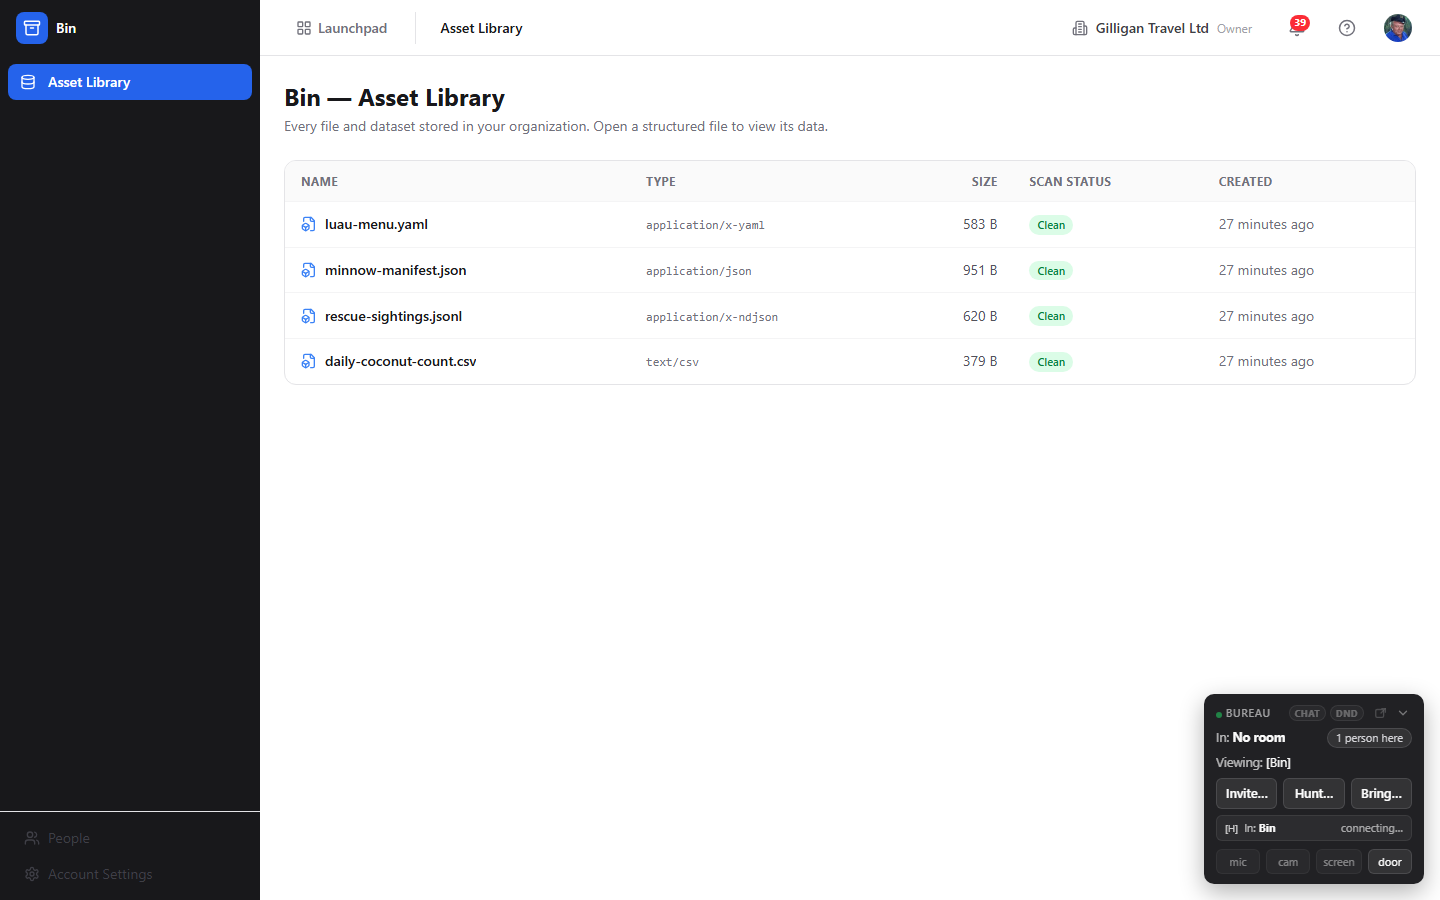
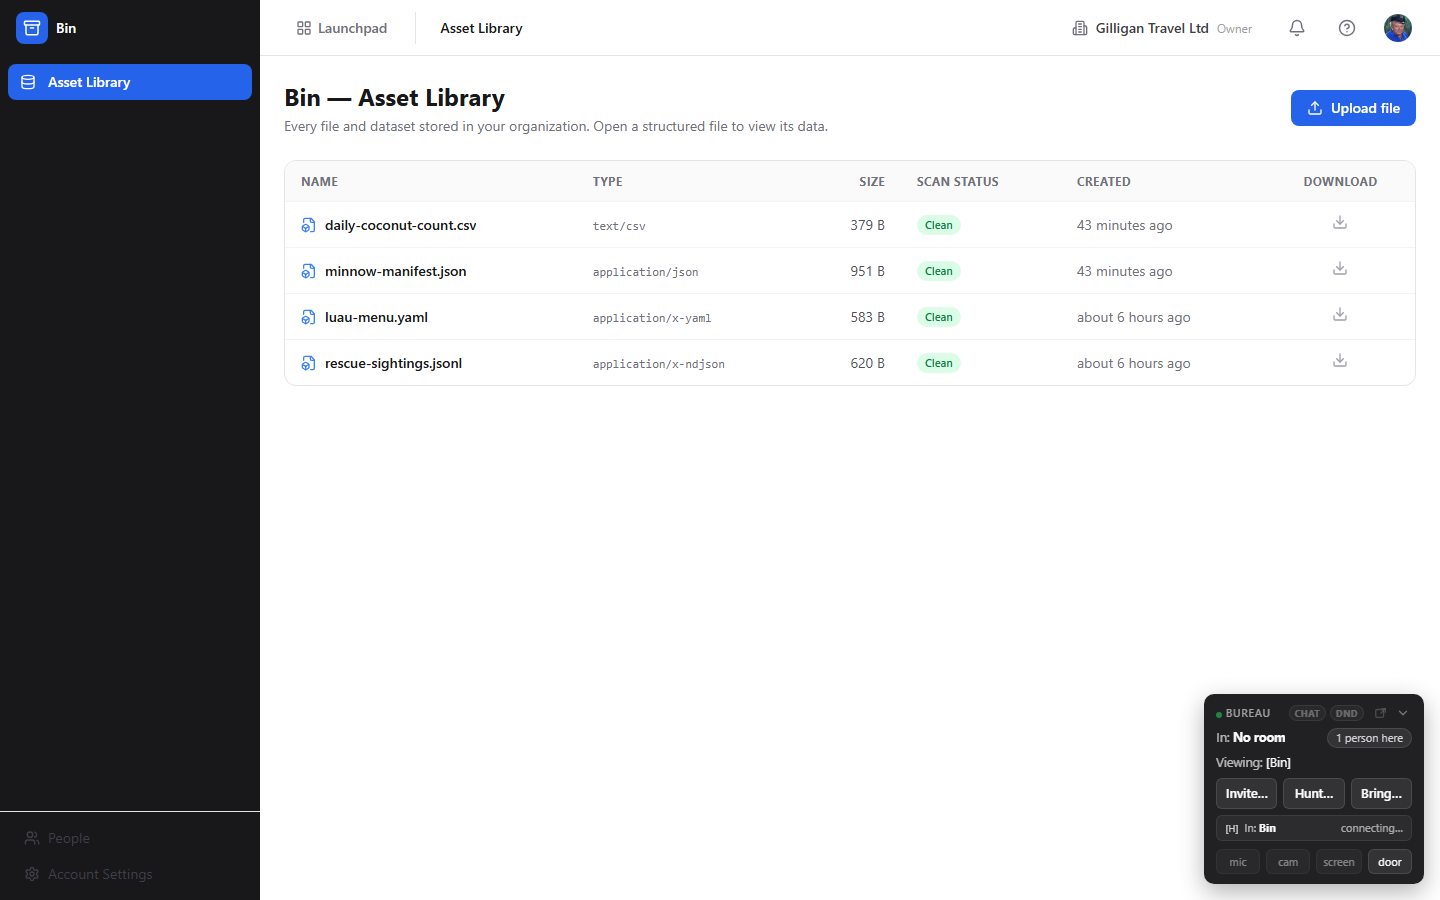
docs(bay): Bay SPA screenshots + screenshot script; launchpad shows Bin+Bay; Bin upload/download in library

diff --git a/scripts/screenshots-bay.js b/scripts/screenshots-bay.js
@@ -1,0 +1,82 @@
+const { chromium } = require('playwright');
+const fs = require('fs');
+const path = require('path');
+
+const IMAGES_DIR = path.resolve(__dirname, '..', 'images');
+const SITE_DIR = path.resolve(__dirname, '..', 'site', 'public', 'screenshots');
+fs.mkdirSync(IMAGES_DIR, { recursive: true });
+fs.mkdirSync(SITE_DIR, { recursive: true });
+
+// Screenshots come from the GILLIGAN project ONLY (see CLAUDE.md).
+const SKIPPER_EMAIL = 'skipper@gilligantravel.example';
+const SKIPPER_PASSWORD = process.env.GILLIGAN_PASSWORD || 'Castaway2026!';
+
+const captured = [];
+const skipped = [];
+
+async function snap(page, filename, label) {
+  try {
+    await page.screenshot({ path: path.join(IMAGES_DIR, filename) });
+    captured.push(filename);
+    console.log('[OK]  ' + filename + '  ' + (label || ''));
+  } catch (e) {
+    skipped.push({ filename, reason: e.message });
+    console.error('[SKIP] ' + filename + ' — ' + e.message);
+  }
+}
+
+async function safe(label, fn) {
+  try {
+    await fn();
+  } catch (e) {
+    console.error('[WARN] step failed: ' + label + ' — ' + e.message);
+  }
+}
+
+(async () => {
+  const browser = await chromium.launch({ headless: true });
+  const page = await browser.newPage({ viewport: { width: 1440, height: 900 } });
+  page.setDefaultTimeout(15000);
+
+  await safe('login', async () => {
+    await page.goto('http://localhost/b3/', { waitUntil: 'domcontentloaded', timeout: 30000 });
+    await page.waitForTimeout(2000);
+    if (await page.locator('input[name=email]').count()) {
+      console.log('[AUTH] Logging in via Bam as the Skipper...');
+      await page.fill('input[name=email]', SKIPPER_EMAIL);
+      await page.fill('input[name=password]', SKIPPER_PASSWORD);
+      await page.click('button[type=submit]');
+      await page.waitForTimeout(3000);
+    }
+  });
+
+  // ===== BAY: Review library =====
+  await safe('bay review library', async () => {
+    await page.goto('http://localhost/bay/', { waitUntil: 'domcontentloaded', timeout: 15000 });
+    await page.waitForTimeout(1800);
+    await snap(page, 'bay-review-library.png', 'Bay review library (Gilligan rescue creative)');
+  });
+
+  // ===== BAY: Review page (open the poster) =====
+  await safe('bay review page', async () => {
+    await page.goto('http://localhost/bay/', { waitUntil: 'domcontentloaded', timeout: 15000 });
+    await page.waitForTimeout(1200);
+    const row = page.locator('table tbody tr', { hasText: 'Rescue Beacon Promo' }).first();
+    if (await row.count()) {
+      await row.click();
+    } else {
+      await page.locator('table tbody tr').first().click();
+    }
+    await page.waitForTimeout(1800);
+    await snap(page, 'bay-review-page.png', 'Bay review page — annotations + decisions');
+  });
+
+  await browser.close();
+  for (const f of captured) {
+    fs.copyFileSync(path.join(IMAGES_DIR, f), path.join(SITE_DIR, f));
+  }
+  console.log('\n=== SUMMARY ===');
+  console.log(`Captured: ${captured.length}`);
+  console.log(`Skipped:  ${skipped.length}`);
+  for (const s of skipped) console.log(`  [SKIP] ${s.filename}: ${s.reason}`);
+})();
